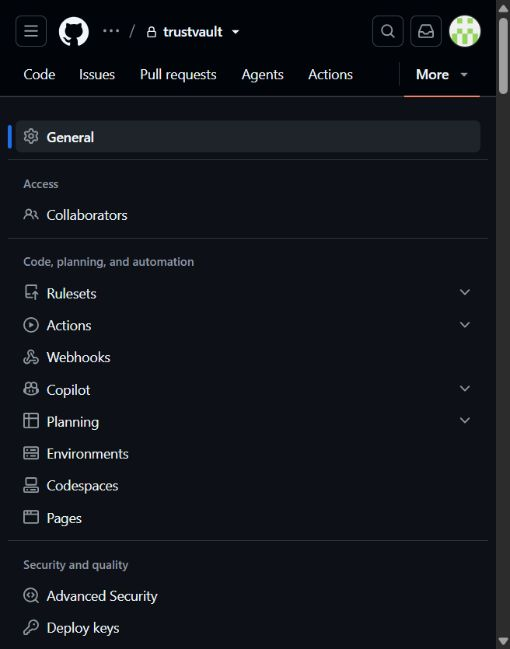
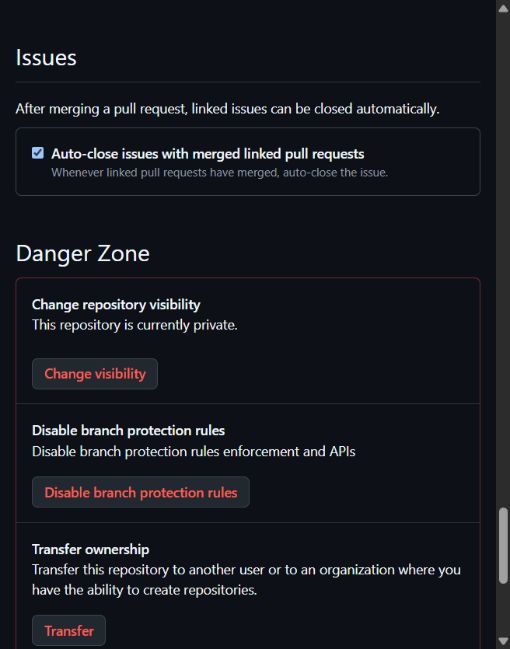
Record private repository setup and remaining authorization steps

diff --git a/VERIFICATION.md b/VERIFICATION.md
@@ -11,17 +11,17 @@
 - SQLite backup script executed successfully and created an ignored snapshot plus checkpoint. Full restore has not yet been rehearsed.
 - Browser: owner sign-in, document details, named viewer read grant, revoke, activity records, category editing and session continuity after local server restart.
 - Browser: hostile category `<img src=x onerror=alert(1)>` was displayed literally, and DOM inspection found no injected image elements. Restored category to Demo afterwards.
-- Screenshots: `docs/screenshots/vault-desktop.png`, `sharing.png`, `xss-literal-text.png`. The sharing screenshot records a test grant that was subsequently revoked.
+- Screenshots: `docs/screenshots/vault-narrow.png`, `sharing.png`, `xss-literal-text.png`. The sharing screenshot records a test grant that was subsequently revoked.
 
 - Fresh export of committed source: npm ci --include=dev installed locked dependencies successfully; syntax checks and all 21 test results passed with zero vulnerabilities reported by npm audit. This was a clean source export, not a cloud deployment.
 
 ## Still pending
 
-- Private GitHub remote and push.
+- Private GitHub repository and remote configured; push pending device authorization. The initially empty repository was public, corrected to private before any code upload. No source was exposed.
 - Live Render/Neon connection including driver TLS behavior against a real server.
 - Live HTTPS cookies, headers, startup/restart durability and deployed security flows.
 - Private-window / another physical device checks.
-- Responsive mobile viewport/manual phone checks.
+- Local narrow layout inspected at the browser's natural 510px width; a real phone and additional mobile widths still need checking.
 - PostgreSQL backup/export and recovery drill; independently retained audit checkpoints.
 - Candidate walkthrough/code exercise, actual video, profile and final submission.
 

diff --git a/README.md b/README.md
@@ -2,7 +2,7 @@
 
 Named document sharing with server-enforced read/edit grants, immediate revocation for subsequent requests, and an HMAC-chained audit record. Built for the Snovasys Fresher Hiring Challenge 2026 with AI assistance documented in [PROMPTS.md](PROMPTS.md).
 
-**Current status:** implemented and tested locally. No GitHub remote or live deployment has been configured yet. Live PostgreSQL connectivity, private-window and second-device checks, the candidate's demo video, and final submission remain outstanding. Do not describe these as complete.
+**Current status:** implemented and tested locally. The GitHub repository exists and is verified private; its remote is configured, but upload is awaiting GitHub device authorization. No live deployment exists yet. Live PostgreSQL connectivity, private-window and second-device checks, the candidate's demo video, and final submission remain outstanding. Do not describe these as complete.
 
 ## Run locally
 

diff --git a/WRITEUP.md b/WRITEUP.md
@@ -20,7 +20,7 @@ No public sharing links, registration/reset UI, online previews, antivirus servi
 
 ## Current unfinished items
 
-- Private GitHub remote/push and visibility-timing clarification.
+- GitHub device authorization/push and visibility-timing clarification (repository verified private, remote configured).
 - Neon/Render setup and live connectivity/TLS verification.
 - Live restart durability, private-browser and second-device checks.
 - Independent audit checkpoint retention and production backup recovery exercise.
